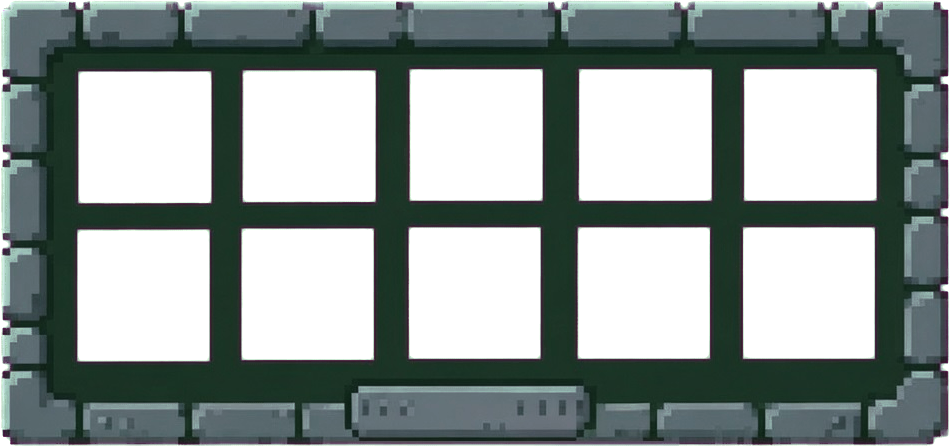
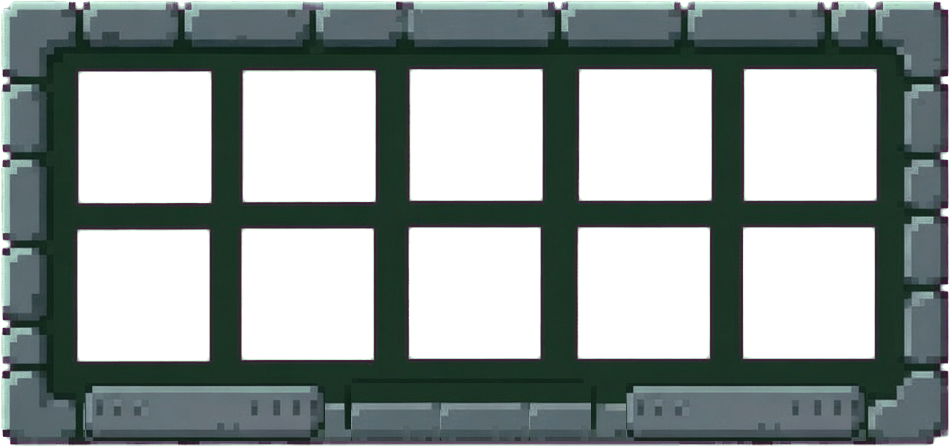
IN GAME sin recuadro azul, BACK TO SITE en flecha, paleta con dos placas y X de cierre roja
Menu
- IN GAME vuelve a su caja de siempre: fondo oscuro translucido con filo dorado y
  esquinas redondeadas, sin ingame-bar.png. El ancho lo pone el CONTENIDO, que es
  lo que arregla de raiz que la cifra se saliera por la derecha al depositar: con
  la caja de 360px fija "IN GAME: 27,360,550 $PILL" no cabia. Medido con 0,
  27,360,550, 999,999,999 y 1,234,567,890 — la caja crece (222/339/352/378px) y
  el texto no se sale en ninguno. La fuente pixel y el ajuste de cuerpo desde
  EDIT LAYOUT se quedan. Fuera tambien LAYOUT_RESIZABLE y los botones IN GAME
  WIDTH: forzar un ancho a mano reintroduce el problema.
- BACK TO SITE pasa a ser SOLO la flecha roja, la misma pieza y el mismo tamano
  (44x44 en 24,18) que la de volver al selector de modos. El rotulo se queda en
  el HTML oculto, para lectores de pantalla.
- La wallet ya no aparece antes que el resto: selectMode la enseñaba al instante
  mientras la transicion de paneles seguia corriendo, asi que durante 1,2s IN
  GAME y DEPOSIT eran lo unico visible. Ahora entra dentro del mismo setTimeout
  que monta el menu. Medido: los dos aparecen a la vez, a 1324ms.

Paleta de la pildora
- La placa central se mueve en el PROPIO PNG a dos posiciones simetricas (el
  centro pasa a ser fila de piedra normal), asi que las dos son literalmente la
  misma pieza que estaba en medio. Izquierda abre el selector, derecha resetea.
  Sin rotulos.
- El recuadro del color bajo el raton pasa de box-shadow inset a outline: el
[…]

Changed region(s): [[0.0916, 0.8434, 0.9158, 0.9888]]

diff --git a/game/index.html b/game/index.html
@@ -188,44 +188,29 @@
         #gwConnect, #gwDepositWrap { position: absolute; top: 18px; right: 0; }
         #gwBalBox { position: absolute; top: 0; right: 160px; }
         /* ===== Barra de wallet =====
-           El recuadro azul (ingame-bar.png) va VACIO: se le borro el texto que
-           traia horneado, y "IN GAME:", la cantidad y "$PILL" se escriben aqui
-           con la fuente pixel del juego. Asi casan con el resto del menu y no
-           dependen del arte. ===== */
-        /* justify-content:space-between + flex:1 en el valor dejaba "IN GAME:"
-           pegado al borde izquierdo y la cifra pegada a "$PILL" por el otro
-           lado: el hueco vacio quedaba JUSTO entre el rotulo y el numero, que es
-           lo que se veia como un hueco enorme. Ahora todo va apretado a la
-           izquierda con gaps pequeños e iguales entre los tres. */
-        /* 360x76 y letra de 13px: el texto mas largo ("IN GAME: 999,999,999
-           $PILL" = 24 caracteres) ocupa 24x13 + los dos gaps + el padding =
-           346px. A 300px solo cabia a 10px, que es lo que se veia diminuto
-           dentro del recuadro. Ancho, alto y cuerpo de letra son ajustables en
-           vivo desde SETTINGS -> EDIT LAYOUT (CTRL / CTRL+SHIFT / ALT + rueda).
-           Padding en px y no en %: el % se resuelve contra el ANCHO DEL PADRE,
-           asi que no acompañaba al estirar la caja. */
+           SIN el recuadro azul (ingame-bar.png). Vuelve la caja de antes: fondo
+           oscuro translucido con un filo dorado, redondeada, y el ancho lo pone
+           el CONTENIDO — que es justo lo que hacia falta, porque con la caja de
+           360px fija el texto se salia por la derecha en cuanto depositabas una
+           cifra larga ("IN GAME: 27,360,550 $PILL"). Ahora la caja crece con el
+           numero y siempre queda igual de ajustada.
+           La fuente pixel SI se queda (el resto del menu va en pixel y el cuerpo
+           de letra es ajustable desde EDIT LAYOUT con --gw-font). ===== */
         #gwBalBox {
             display: none; align-items: center; justify-content: flex-start;
-            width: 360px; height: 76px;
-            background: var(--gw-bar, none) center/100% 100% no-repeat;
-            /* Mismo motivo que los botones (ver #gameWalletArea button): el arte
-               es de 1761x409 y aqui se pinta a 360x76 — casi 5 veces mas
-               pequeno. Con pixelated el borde negro fino se comia filas enteras
-               y aparecia y desaparecia segun el ancho. */
-            image-rendering: auto;
-            padding: 0 12px; box-sizing: border-box;
+            padding: 8px 14px; box-sizing: border-box;
+            background: rgba(0,0,0,0.55); border: 1px solid rgba(255,206,61,0.4);
+            border-radius: 8px; backdrop-filter: blur(4px); white-space: nowrap;
         }
-        /* El CONTENIDO del recuadro azul es una pieza de layout aparte
-           (walletBarTxt): se mueve, se escala y se le cambia el cuerpo de letra
-           SIN tocar el recuadro. Antes el texto iba suelto dentro de la caja y
-           solo se podia recolocar estirando la caja entera. */
+        /* El CONTENIDO de la caja es una pieza de layout aparte (walletBarTxt):
+           se mueve, se escala y se le cambia el cuerpo de letra sin tocar la
+           caja. */
         #gwBalInner { display: flex; align-items: center; gap: 5px; }
         /* El cuerpo de letra sale de --gw-font: se ajusta en vivo con
-           ALT+rueda desde SETTINGS -> EDIT LAYOUT (a 10px el texto ocupaba una
-           esquina del recuadro y quedaba ridiculo). El default de 13px es el
+           ALT+rueda desde SETTINGS -> EDIT LAYOUT. El default de 13px es el
            punto de partida; lo que se guarde manda. */
         #gwBalBox .gw-lbl {
-            font-family: 'Press Start 2P', monospace; font-size: var(--gw-font, 13px); color: #fff;
+            font-family: 'Press Start 2P', monospace; font-size: var(--gw-font, 13px); color: #ffce3d;
             text-shadow: 2px 2px 0 rgba(0,0,0,0.75); white-space: nowrap; line-height: 1;
         }
         /* La cantidad va con la MISMA fuente que los rotulos (lo pidio David):
@@ -315,7 +300,12 @@
         .gameModalBox .close:hover { color:#fff; }
         .gameModalBox label { display:block; text-align:left; font-family:'Russo One'; font-size:11px; color:var(--primary); margin: 10px 0 5px; letter-spacing:1px; }
         .gameModalBox input { width:100%; background:#111; border:1px solid #333; border-radius:8px; color:#fff; font-family:'Inter'; font-size:14px; padding:10px 12px; outline:none; box-sizing:border-box; }
-        .gameModalBox input:focus { border-color: var(--primary); }
+        /* El foco del Amount iba con --primary (el verde del tema) y desentonaba
+           dentro del cartel gris de deposit/withdraw: pasa al mismo gris claro
+           que usan los rotulos del marco. selection incluida — el azul del
+           navegador cantaba igual que el verde. */
+        .gameModalBox input:focus { border-color: #8a939e; }
+        .gameModalBox input::selection { background: #4b5560; color: #fff; }
         .gameModalBox .gm-btn { width:100%; padding:12px; background: var(--primary); color:#04150c; border:none; border-radius:8px; font-family:'Russo One'; font-size:14px; letter-spacing:1px; text-transform:uppercase; cursor:pointer; margin-top:14px; transition:0.2s; }
         .gameModalBox .gm-btn:hover { filter: brightness(1.1); box-shadow: 0 0 18px rgba(0,255,136,0.4); }
         .gameModalBox .gm-btn:disabled { opacity: 0.6; cursor:default; }
@@ -383,33 +373,26 @@
 
         /* --- MODE SCREEN (DESKTOP DEFAULT) --- */
         #modeScreen { position: absolute; top: 0; left: 0; width: 100%; height: 100%; z-index: 50; display: flex; overflow: hidden; background: #000; transition: opacity 0.5s; }
-        /* Boton "BACK TO SITE": arte de David (back-to-site.png, la flecha ya
-           viene dibujada a la izquierda), estirado ENTERO a tamaño uniforme
-           (mismo factor en ancho y alto — no distorsiona el marco) y el
-           rotulo escrito encima con la fuente pixel del menu, igual que
-           IN GAME (el PNG no trae texto horneado).
-           210x68 (aspect real 3136/1008 = 3.111): medido en el DOM, "BACK TO
-           SITE" en Press Start 2P a 9px + 2px de letter-spacing ocupa 132px —
-           a 180x58 (lo primero que probé) se salia 8px por la derecha.
-           image-rendering:auto (mismo motivo que .back-icon: body trae
-           -webkit-optimize-contrast heredable, quitar la propiedad no basta).
-           El arte trae scanlines finas que a este tamaño se ven moire con
-           nearest-neighbor; back-to-site.png ya viene pre-reducido (840x272,
-           no los 3136x1008 originales) con un filtro suave. */
+        /* Volver a la web: SOLO la flecha roja, la misma pieza y el mismo tamaño
+           que la de volver al selector de modos (.back-icon). Antes era la placa
+           ancha de back-to-site.png con el rotulo "BACK TO SITE" encima; el
+           rotulo se quita y con el la placa, asi las dos flechas de "atras" del
+           juego son iguales.
+           image-rendering:auto igual que .back-icon: el arte trae scanlines
+           finas que a 44px hacen moire con nearest-neighbor, y como body hereda
+           -webkit-optimize-contrast no basta con no poner la propiedad. */
         .back-to-web {
-            position: absolute; top: 22px; left: 24px; z-index: 200;
-            display: flex; align-items: center;
-            height: 68px; width: 210px; box-sizing: border-box;
-            padding: 0 14px 0 66px;
-            background: url('img/cartel-hero/back-to-site.png') center/100% 100% no-repeat;
-            image-rendering: pixelated;
-            color: #fff; font-family: 'Press Start 2P', monospace !important; font-size: 9px !important; letter-spacing: 0;
-            text-transform: uppercase; text-decoration: none; white-space: nowrap;
+            position: absolute; top: 18px; left: 24px; z-index: 200;
+            display: block; width: 44px; height: 44px; aspect-ratio: 176/173;
+            background: url('img/cartel-hero/back-arrow.png') center/100% 100% no-repeat;
+            image-rendering: auto; text-decoration: none;
             cursor: pointer; transition: filter 0.2s, transform 0.2s;
-            text-shadow: 2px 2px 0 rgba(0,0,0,0.75);
         }
+        /* El rotulo ya no se pinta: la flecha del arte se explica sola. Se deja
+           en el HTML para los lectores de pantalla. */
         .back-to-web span {
-            font-family: 'Press Start 2P', monospace !important; font-size: 9px !important; letter-spacing: 0;
+            position: absolute; width: 1px; height: 1px; overflow: hidden;
+            clip-path: inset(50%); white-space: nowrap;
         }
         .back-to-web:hover { filter: brightness(1.15); transform: translateX(-2px); }
         .mode-panel { position: absolute; top: 0; bottom: 0; width: 100%; transition: clip-path 1.2s cubic-bezier(0.4, 0, 0.2, 1), filter 0.85s; cursor: pointer; display: flex; flex-direction: column; justify-content: center; padding: 0 10%; box-sizing: border-box; }
@@ -1114,29 +1097,20 @@
             width: 13.68%; height: 29.08%;
         }
         .pal-swatch:hover { filter: brightness(1.25); }
-        /* Placa central de abajo del arte = elegir un color libre. */
-        .pal-pick {
-            position: absolute; z-index: 3; border: 0; padding: 0; cursor: pointer;
-            background: transparent; left: 37.47%; top: 85.68%; width: 24.21%; height: 11.86%;
-        }
-        .pal-pick:hover { background: rgba(255,255,255,0.16); }
-        /* Las dos placas de piedra que flanquean a la central, en la misma fila
-           de abajo del arte: PICK (abrir el selector grande) y RESET (devolver
-           las 10 ventanas a los colores de fabrica). Los % salen de medir los
-           bloques del PNG de 950x447 — la izquierda va de 8.74% a 31.04% y la
-           derecha de 69.79% a 90.64%; se ajustan a 22% de ancho centrados en
-           19.9% y 80.1%, simetricos respecto al centro del cartel.
-           El arte no trae rotulos, asi que el texto va por CSS. */
+        /* Las DOS placas de abajo del arte: la izquierda abre el selector de
+           color y la derecha resetea la paleta. SIN rotulo, manda el arte.
+           Antes habia UNA sola placa en el centro; se ha movido a estas dos
+           posiciones en el PROPIO PNG (el centro pasa a ser fila de piedra
+           normal), asi que las dos son literalmente la misma pieza que estaba
+           en medio. En el arte de 950x447 van de x=85 y x=626, 240 de ancho, y
+           de y=383 a 441: de ahi salen estos porcentajes. */
         .pal-btn {
             position: absolute; z-index: 3; border: 0; padding: 0; cursor: pointer;
-            background: transparent; top: 85.68%; height: 11.86%;
-            font-family: 'Press Start 2P', monospace; font-size: 6px; letter-spacing: 0;
-            color: #cfe6d6; text-shadow: 1px 1px 0 rgba(0,0,0,0.85);
-            display: grid; place-items: center;
+            background: transparent; top: 85.68%; height: 12.98%; width: 25.26%;
         }
-        .pal-btn:hover { background: rgba(255,255,255,0.16); color: #fff; }
-        #palPickL { left: 8.9%; width: 22%; }
-        #palReset { left: 69.1%; width: 22%; }
+        .pal-btn:hover { background: rgba(255,255,255,0.16); }
+        #palPickL { left: 8.95%; }
+        #palReset { left: 65.89%; }
         .pill-palette.assigning .pal-swatch { animation: palBlink 0.7s steps(2) infinite; }
         @keyframes palBlink { 50% { outline: 2px solid #fff; outline-offset: -1px; } }
         /* Aviso de "guarda el color en una ventana". Estaba a 5.5px y en gris:
@@ -1176,7 +1150,12 @@
         }
         .cp-group { display: grid; grid-template-columns: repeat(3, 1fr); grid-template-rows: repeat(3, 1fr); box-shadow: 0 0 0 2px rgba(0,0,0,0.55); }
         .cp-cell { border: 0; padding: 0; cursor: pointer; }
-        .cp-cell:hover { box-shadow: inset 0 0 0 2px #fff; position: relative; z-index: 3; }
+        /* Marca del color bajo el raton: un recuadro blanco LIMPIO por fuera de
+           la celda. El inset de antes pintaba el borde por DENTRO, comiendose el
+           color justo donde lo estas mirando y dejando esa sombra rara sobre el
+           tono; ademas al ser inset se veia distinto en las celdas del borde del
+           grupo, que ya llevan el contorno negro del .cp-group. */
+        .cp-cell:hover { outline: 2px solid #fff; outline-offset: -1px; position: relative; z-index: 3; }
 
         /* Editor de layout del menu: cada elemento se puede arrastrar (mover)
            y escalar con la rueda; el resultado se guarda por usuario. */
@@ -1851,7 +1830,7 @@
 
     <!-- Barra del editor de layout del menu: visible solo en modo edicion -->
     <div id="layoutEditBar" style="display:none;">
-        <span class="leb-hint">DRAG = MOVE &nbsp;·&nbsp; WHEEL = SIZE &nbsp;·&nbsp; ALT+WHEEL = TITLE GLOW / TEXT SIZE (IN GAME) &nbsp;·&nbsp; CTRL+WHEEL = WIDTH (IN GAME) &nbsp;·&nbsp; CTRL+SHIFT+WHEEL = HEIGHT &nbsp;·&nbsp; DOUBLE-CLICK = RESET ONE &nbsp;·&nbsp; EL TEXTO DE IN GAME SE AGARRA APARTE DEL RECUADRO</span>
+        <span class="leb-hint">DRAG = MOVE &nbsp;·&nbsp; WHEEL = SIZE &nbsp;·&nbsp; ALT+WHEEL = TITLE GLOW / TEXT SIZE &nbsp;·&nbsp; DOUBLE-CLICK = RESET ONE &nbsp;·&nbsp; EL TEXTO DE IN GAME Y EL DE LOS BOTONES SE AGARRAN APARTE DE SU CAJA</span>
         <!-- Botones sueltos para el texto/ancho de IN GAME: el gesto de rueda
              (ALT / CTRL+rueda) depende de acertar el punto exacto con el raton
              y de que el navegador no se coma la combinacion (CTRL+rueda hace
@@ -1869,11 +1848,6 @@
             <span class="leb-label">WALLET BTN TXT</span>
             <button class="leb-btn leb-sm" onclick="bumpLayoutFont('walletBtnTxt', -1)">−</button>
             <button class="leb-btn leb-sm" onclick="bumpLayoutFont('walletBtnTxt', 1)">+</button>
-        </span>
-        <span class="leb-group">
-            <span class="leb-label">IN GAME WIDTH</span>
-            <button class="leb-btn leb-sm" onclick="bumpWalletWidth(-10)">−</button>
-            <button class="leb-btn leb-sm" onclick="bumpWalletWidth(10)">+</button>
         </span>
         <button class="leb-btn" onclick="resetMenuLayout()">RESET ALL</button>
         <button class="leb-btn" onclick="saveLayoutGlobal(this)">SAVE FOR ALL</button>
@@ -1963,8 +1937,8 @@
     </div>
 
     <div id="modeScreen">
-        <!-- El arte de back-to-site.png ya trae la flecha dibujada a la izquierda:
-             sin SVG, solo el rotulo (el PNG no trae texto horneado). -->
+        <!-- Solo la flecha roja (el mismo arte que la de volver al selector de
+             modos). El texto queda oculto, solo para lectores de pantalla. -->
         <a href="../" class="back-to-web" title="Back to PillWars site" onclick="event.stopPropagation();">
             <span>BACK TO SITE</span>
         </a>
@@ -2047,9 +2021,8 @@
                 <div id="pillPalette" class="pill-palette" style="display:none;">
                     <div class="pal-slots" id="palGrid"></div>
                     <canvas class="pal-frame" id="palFrame"></canvas>
-                    <button class="pal-btn" id="palPickL" type="button" title="Pick any color">PICK</button>
-                    <button class="pal-pick" id="palPick" type="button" title="Pick any color"></button>
-                    <button class="pal-btn" id="palReset" type="button" title="Reset the palette to its default colors">RESET</button>
+                    <button class="pal-btn" id="palPickL" type="button" title="Pick any color"></button>
+                    <button class="pal-btn" id="palReset" type="button" title="Reset the palette to its default colors"></button>
                 </div>
                 <!-- Fuera de la paleta para poder moverlo por separado en EDIT
                      LAYOUT (dentro heredaba su posicion y su escala). -->
@@ -3982,9 +3955,16 @@
             'body.pixel-pack #myResult{font-family:"Press Start 2P",monospace!important;font-size:13px!important;line-height:2}';
         // X de cierre pixel para los gameModal (deposit/withdraw y premio):
         // solo x.png (arte de David en cartel-hero). Antes usaba close-x-red.
-        if (cartelUsesAtlas('x')) {
+        // close-x-red y no x.png: x.png es el boton CUADRADO del HUD (marco de
+        // piedra incluido) y como aspa de cerrar un modal quedaba enorme. El PNG
+        // va a 52x52 = el DOBLE exacto de los 26 a los que se pinta, asi que el
+        // navegador solo reduce 2x y con pixelated cae pixel a pixel sin bordes
+        // sucios. (El original traia FONDO BLANCO opaco, no transparente: se le
+        // quito por flood fill desde los bordes — no habia ni un blanco
+        // interior, asi que el aspa no pierde nada.)
+        if (cartelUsesAtlas('close-x-red')) {
             css += 'body.pixel-pack .gameModalBox .close{color:transparent!important;width:26px;height:26px;' +
-                'background:url(' + cartelHeroUrl('x') + ') center/contain no-repeat;image-rendering:pixelated;' +
+                'background:url(' + cartelHeroUrl('close-x-red') + ') center/100% 100% no-repeat;image-rendering:pixelated;' +
                 'display:inline-block;line-height:0;overflow:hidden}' +
                 'body.pixel-pack .gameModalBox .close:hover{filter:brightness(1.2)}';
         }
@@ -5566,7 +5546,11 @@
         SoundManager.play('select');
         ignoreNextHover = true;
         currentGameMode = m;
-        if (typeof GameWalletUI !== 'undefined') GameWalletUI.setVisible(true, m);   // wallet area solo al seleccionar modo
+        // La wallet (IN GAME + CONNECT/DEPOSIT) NO se enseña aqui: se enseña
+        // abajo, junto con el resto del menu. Aqui salia al instante mientras la
+        // transicion de paneles seguia corriendo, asi que durante 1,2s eran lo
+        // UNICO visible sobre la pantalla de modos — parecia que cargaban antes
+        // que todo lo demas.
         if (typeof refreshOracle === 'function') refreshOracle();   // refresca status de salas para el nuevo modo
         
         // Bloquear interacción durante transición
@@ -5630,6 +5614,8 @@
             try { paintLoginBg(m); } catch(e) {}
             els.modeScreen.style.display = 'none';
             els.loginOverlay.style.display = 'flex';
+            // La wallet entra AQUI, con el menu ya montado (ver arriba).
+            if (typeof GameWalletUI !== 'undefined') GameWalletUI.setVisible(true, m);
             els.modeScreen.style.pointerEvents = 'auto'; // Reactivar por si vuelven atrás
         }, 1200);
     }
@@ -5824,15 +5810,12 @@
             if (wa) {
                 const pon = (v, id) => { if (cartelUsesAtlas(id)) wa.style.setProperty(v, 'url(' + cartelHeroUrl(id) + ')'); };
                 pon('--gw-red', 'wallet-btn-red');
-                pon('--gw-bar', 'ingame-bar');
             }
         });
-        // Las placas de abajo del arte: las dos de la izquierda (la central y la
-        // lateral) abren el selector grande, la de la derecha resetea la paleta.
-        for (const id of ['palPick', 'palPickL']) {
-            const b = document.getElementById(id);
-            if (b) b.onclick = (e) => { e.stopPropagation(); openColorPicker(); };
-        }
+        // Las dos placas de abajo del arte: la izquierda abre el selector
+        // grande, la derecha resetea la paleta.
+        const pickL = document.getElementById('palPickL');
+        if (pickL) pickL.onclick = (e) => { e.stopPropagation(); openColorPicker(); };
         const rst = document.getElementById('palReset');
         if (rst) rst.onclick = (e) => { e.stopPropagation(); resetPalette(); };
         document.addEventListener('mousedown', (e) => {
@@ -5999,7 +5982,10 @@
     // CTRL+SHIFT+rueda) en vez del escalado uniforme de siempre: son cajas de
     // fondo (background-image estirable), no sprites de pixel art que se
     // deformarian al perder la proporcion.
-    const LAYOUT_RESIZABLE = new Set(['walletBar']);
+    // Vacio desde que la barra IN GAME dejo de tener recuadro fijo: su ancho lo
+    // pone el texto, y forzarle uno a mano es justo lo que hacia que la cifra
+    // se saliera por la derecha al depositar.
+    const LAYOUT_RESIZABLE = new Set();
     // Elementos cuyo TEXTO se escala aparte de la caja (ALT+rueda): la barra
     // IN GAME lleva su rotulo por CSS encima del PNG, y el cuerpo de letra que
     // le cuadre depende de lo que se haya estirado la caja. walletBarTxt es el
@@ -6263,13 +6249,6 @@
         const base = typeof cur.f === 'number' ? cur.f : (parseFloat(getComputedStyle(el).getPropertyValue('--gw-font')) || 13);
         cur.f = Math.round(Math.min(48, Math.max(6, base + delta)) * 10) / 10;
         marcarLayoutMio(key); applyMenuLayout(); saveMenuLayout();
-    }
-    function bumpWalletWidth(delta) {
-        const el = document.querySelector(LAYOUT_ELS.walletBar); if (!el) return;
-        const cur = menuLayout.walletBar = menuLayout.walletBar || { x: 0, y: 0, s: 1 };
-        const base = typeof cur.w === 'number' ? cur.w : el.getBoundingClientRect().width;
-        cur.w = Math.max(40, Math.min(900, base + delta));
-        marcarLayoutMio('walletBar'); applyMenuLayout(); saveMenuLayout();
     }
     // RESET ALL vuelve a cero Y suelta las claves propias: a partir de aqui
     // manda otra vez el global del servidor.
@@ -7207,6 +7186,11 @@
                 return;
             }
             const btn = document.getElementById('gdConfirm'); const old = btn.innerText; btn.disabled = true; btn.innerText = 'Sign in wallet...';
+            // A los 5s el boton vuelve a estar disponible AUNQUE la operacion
+            // siga en marcha. Mandar una transaccion de mas no rompe nada (el
+            // servidor acredita por firma y rechaza las repetidas), y esperar
+            // con el boton muerto a que una wallet atascada conteste es peor.
+            const liberar = setTimeout(() => { btn.disabled = false; btn.innerText = old; }, 5000);
             // finally y no despues del catch: si algo lanzaba fuera del try (o
             // una promesa no resolvia nunca) el boton se quedaba en gris para
             // siempre y habia que recargar para poder reintentar.
@@ -7219,7 +7203,7 @@
                 this.refresh();
                 showSystemMsg(this.fmt(amt) + ' $PILL added to your in-GAME balance.', 'DEPOSIT COMPLETE');
             } catch (e) { showSystemMsg(walletErrText(e), 'DEPOSIT FAILED'); }
-            finally { btn.disabled = false; btn.innerText = old; }
+            finally { clearTimeout(liberar); btn.disabled = false; btn.innerText = old; }
         }
     };
 

diff --git a/game/cartel-hero.js b/game/cartel-hero.js
@@ -48,13 +48,14 @@ const CARTEL_IDS = ['lobbyBanner', 'sysModal', 'skillPanel', 'button', 'menu-squ
     // fondo magenta.
     'palette',
     // Barra de wallet: el rojo VACIO que comparten CONNECT/DEPOSIT/WITHDRAW/
-    // DISCONNECT (el texto va por CSS encima), el azul de PLAY ONLINE y la
-    // barra del saldo (recuadro vacio; IN GAME: ... $PILL se escriben por CSS).
+    // DISCONNECT (el texto va por CSS encima) y el azul de PLAY ONLINE.
     // wallet-connect.png (el rojo con "CONNECT" horneado) ya no se usa: CONNECT
-    // pasa a compartir recuadro con DEPOSIT.
+    // pasa a compartir recuadro con DEPOSIT. ingame-bar.png (el recuadro azul
+    // del saldo) tampoco: el IN GAME vuelve a su caja oscura de siempre, que se
+    // ajusta al ancho del texto — con el recuadro fijo la cifra se salia.
     // wallet-btn-blue = el mismo rojo pero en azul (PLAY ONLINE del popup de
     // PLAY y los botones de calidad de SETTINGS).
-    'wallet-btn-red', 'wallet-btn-blue', 'btn-azul', 'ingame-bar',
+    'wallet-btn-red', 'wallet-btn-blue', 'btn-azul',
     // OK gris (arte de David, recortado de un checker de transparencia
     // guardado como jpg): solo para los modales/mensajes de wallet que usan
     // el marco gris (menu-gris) — el resto de OK siguen con el verde.
